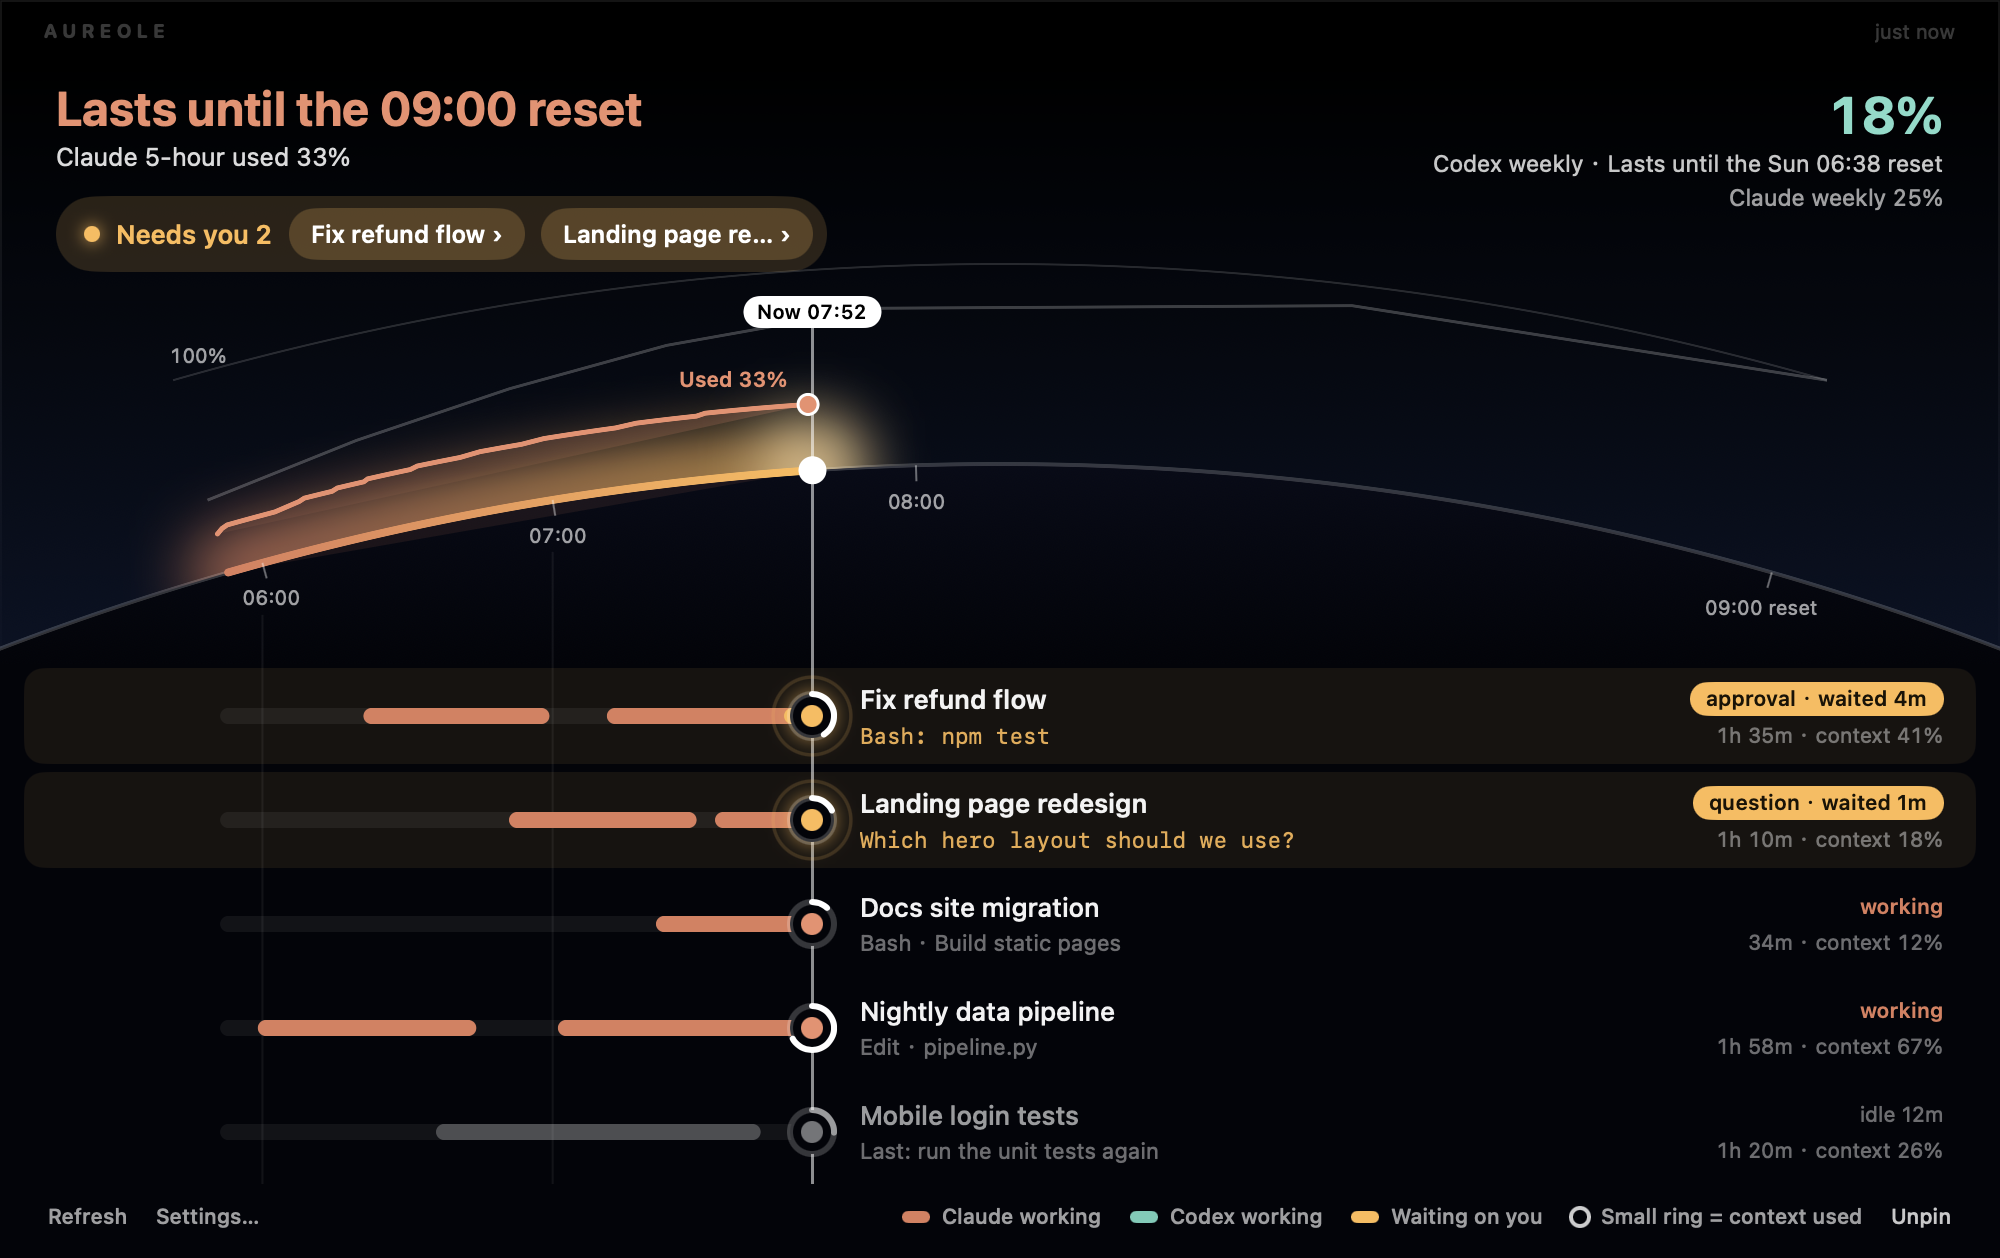
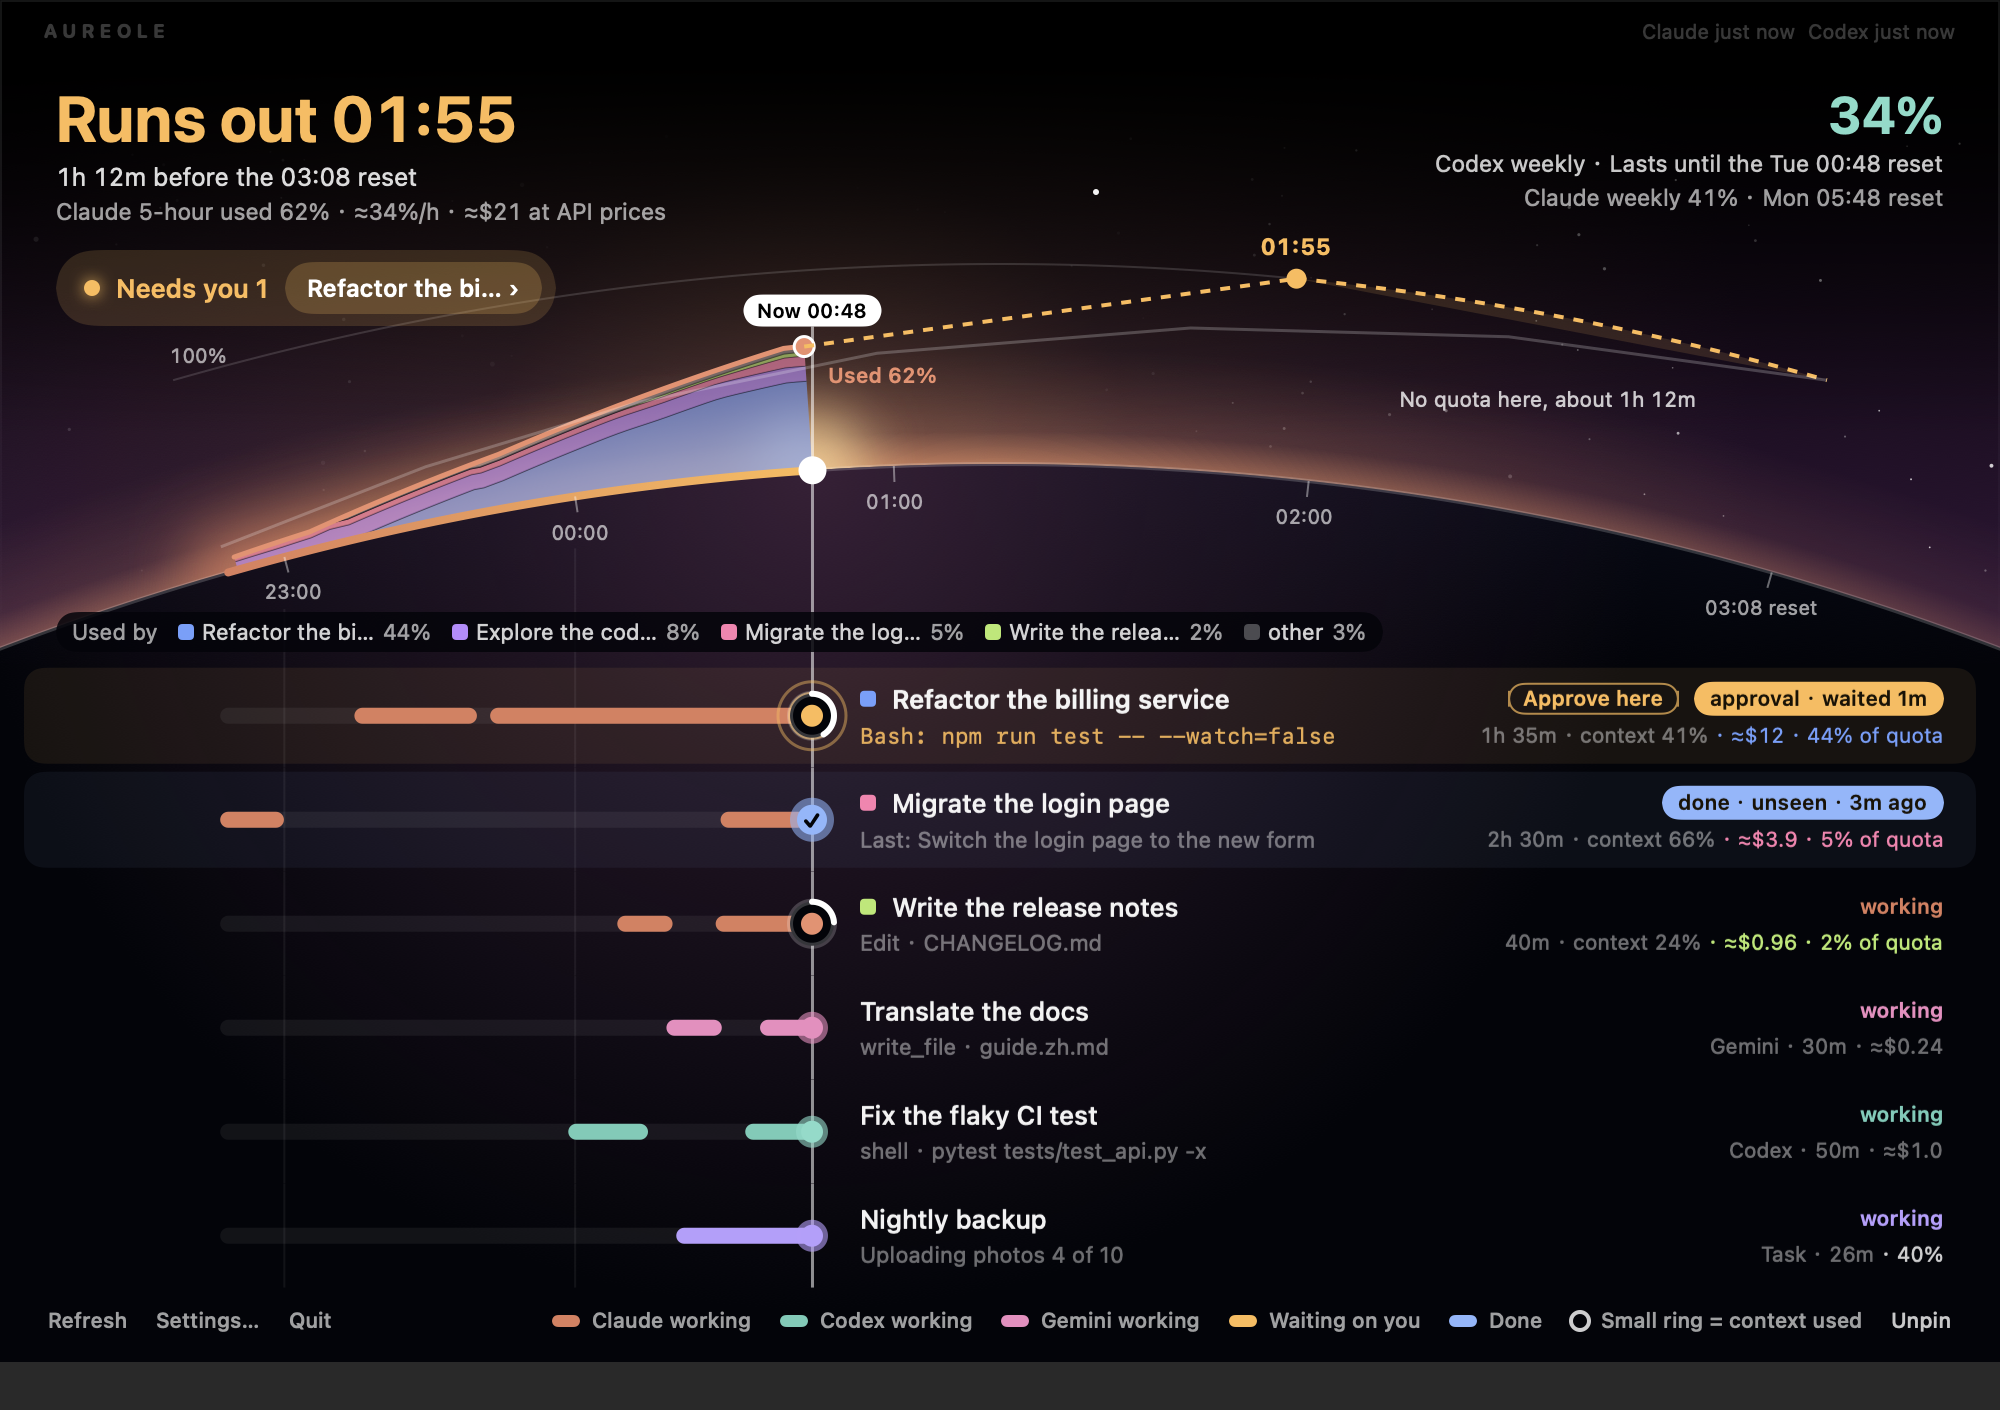
Release 0.8.0

diff --git a/Sources/AureoleCore/L10n.swift b/Sources/AureoleCore/L10n.swift
@@ -129,7 +129,7 @@ public enum L10n {
         "Too late: the terminal is already asking. Answer it there.": "晚了一步：终端里已经在问了，请到终端处理。",
         "Allowed. %@ carries on.": "已允许，%@ 继续执行。", "Denied. %@ was told no.": "已拒绝，已告知 %@。",
         "Esc closes the panel": "按 Esc 收起面板", "Needs Accessibility": "需要辅助功能权限", "Allow…": "授权…",
-        "Ambient motion (breathing glow, flowing forecast)": "环境动效（光带呼吸、预测线流动）",
+        "Ambient motion (the sky, breathing glow, flowing forecast)": "环境动效（天空、光带呼吸、预测线流动）",
         "Off automatically when macOS is set to reduce motion.": "macOS 开启「减少动态效果」时自动关闭。",
         "working": "干活中", "Last: %@": "上次：%@", "Panel layout": "面板样式", "Horizon": "晨昏线", "List": "列表", "Session tracking is off.": "会话跟踪已关闭。",
         "Context %% is an estimate (200k or 1M window).": "上下文百分比是估算（按 20 万或 100 万窗口）。",

diff --git a/Sources/Aureole/Settings/SettingsView.swift b/Sources/Aureole/Settings/SettingsView.swift
@@ -75,7 +75,7 @@ struct GeneralTab: View {
             LabeledContent(L10n.t("Hide or show Aureole")) {
                 Text(HotKey.display).font(.system(.body, design: .rounded)).foregroundStyle(.secondary)
             }
-            Toggle(L10n.t("Ambient motion (breathing glow, flowing forecast)"), isOn: $settings.ambientMotion)
+            Toggle(L10n.t("Ambient motion (the sky, breathing glow, flowing forecast)"), isOn: $settings.ambientMotion)
             Text(L10n.t("Off automatically when macOS is set to reduce motion."))
                 .font(.caption).foregroundStyle(.secondary)
             Button(L10n.t("Open the welcome guide…")) { openWelcome() }

diff --git a/README.zh-CN.md b/README.zh-CN.md
@@ -8,9 +8,15 @@ Aureole 是一个原生 macOS 小工具：Claude 和 Codex 订阅还剩多少额
 都显示在你本来就会看的地方。收起时，刘海下沿是两道光弧，一家一道，额度用掉多少就缩短多少；
 鼠标移上去，面板展开：
 
-![Aureole：收起的刘海、展开的面板、在面板里批准一条权限请求（示例数据）](docs/demo.zh.gif)
+![Aureole 的面板：地平线上是额度，天空的颜色跟着额度走，下面每个会话一条横道（示例数据）](docs/screenshots/horizon-zh.png)
+
+![收起的刘海、展开的面板、在面板里批准一条权限请求（示例数据；录制于 0.8 之前，那时天空还是纯色）](docs/demo.zh.gif)
 
 **怎么看。** 时间沿着一颗星球的地平线从左往右走，白色的太阳就是**现在**。
+
+- **天色先告诉你大概。** 额度够用是深蓝，会在重置前用完是暮色，用到 95% 以上是暗红，数字过期了是灰色。
+  三分之一的星星在闪，星球边缘的光缓慢呼吸，任务完成时划过一颗流星、留下一颗星。
+  设置里的「环境动效」可以把动效关掉。
 
 - **上面的弧讲额度。** 从地平线升起的橙色曲线是当前窗口已经用了多少；虚线是按现在的速度会走到哪；
   淡色的线是「匀速用完」——正好在重置时用到 100%。如果预测会提前用完，标题变成琥珀色

diff --git a/README.md b/README.md
@@ -9,10 +9,17 @@ you have left, and what each of your Claude Code sessions is doing, right where 
 are. Closed, two arcs of light hug the notch, one per provider, shrinking as the current window
 drains. Hover, and the panel drops down:
 
-![Aureole: the closed notch, the panel, and a permission request answered from the panel (sample data)](docs/demo.gif)
+![Aureole's panel: the quota on the horizon, under a sky that takes its colour, and one lane per session (sample data)](docs/screenshots/horizon.png)
+
+![The closed notch, the panel, and a permission request answered from the panel (sample data; recorded before 0.8, when the sky was still plain)](docs/demo.gif)
 
 **How to read it.** Time runs left to right along the edge of a planet, with **now** at the white
 sun.
+
+- **The sky says how it is going**, before any number is read: deep blue while there is plenty, dusk
+  when the window will run out before its reset, embers past 95%, grey when the numbers are old. One
+  star in three twinkles, the light on the planet's edge breathes, and a task that finishes drops a
+  meteor that leaves a star. "Ambient motion" in Settings turns the motion off.
 
 - **The arc is your quota.** The orange curve rising off the horizon is how much of the current
   window you have used; the dashed line is where the current pace takes you; the faint line is

diff --git a/CHANGELOG.md b/CHANGELOG.md
@@ -1,5 +1,20 @@
 # Changelog
 
+## 0.8.0 — 2026-11-27
+
+- **The sky takes the quota's colour.** The panel's background was close to black. It is now a sky over
+  the planet's edge that says how the window is going before any number is read: deep blue while there
+  is plenty, dusk when it will run out before the reset (or from 80% used), embers from 95%, grey when
+  the numbers could not be refreshed. One sky eases into the next over about a second and a half.
+- **And it moves.** One star in three twinkles, the light on the planet's edge breathes, a light slides
+  along the horizon every nine seconds, and a task that finishes drops a meteor that leaves a star (up
+  to 24, until the app quits). With old numbers everything stands still. The motion runs on Core
+  Animation layers and the app draws nothing per frame; measured with the panel open, it costs at most
+  about one percent of one CPU core. "Ambient motion" in Settings turns it off, and Reduce Motion is
+  respected.
+- For development: `--film <dir>` draws the panel frame by frame into images for a video, and
+  `--demo --tour` walks the sample data through the four skies on the real notch.
+
 ## 0.7.5 — 2026-11-27
 
 Fixes from an outside review of 0.7.4, security first, and the weekly reset time.
